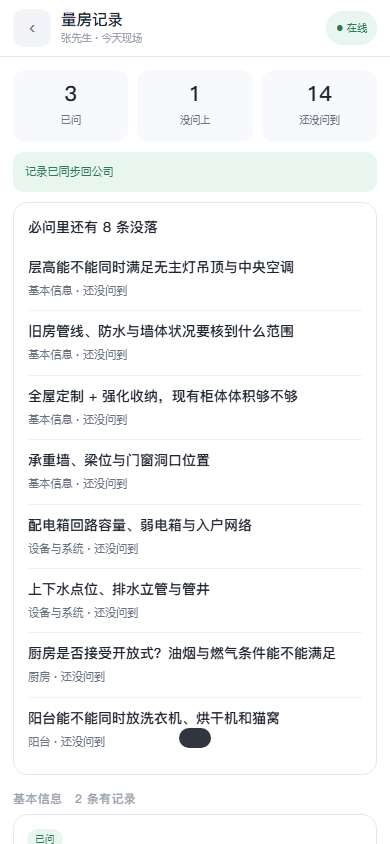
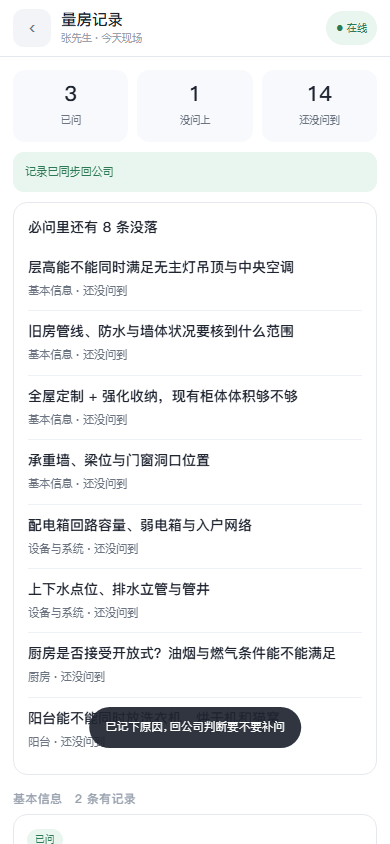
docs: 补齐产品文档与技术方案（采集端手机版与上线状态）
- 产品设计文档 V1.1：端形态表写清「手机版 + 微信小程序」并存关系；指标补装机率；交付线 A5 更新为已上线（小程序待提审）；附录补手机版资产、小程序产物与上线地址；新增附录 B 变更记录

- 技术方案 V1.1：选型表、构建小节、测试矩阵、必须守住的验证点、风险与待定项各自补上装机内容；补上线上发布状态；断言数更正为 113

- 新增两条回归断言：文档版本号在表头/引用/入口页之间一致；两份文档都带变更记录

Changed region(s): [[0.2154, 0.8318, 0.7692, 0.8934]]

diff --git a/landing/index.html b/landing/index.html
@@ -304,12 +304,12 @@ footer .stack{display:flex;gap:8px;flex-wrap:wrap;margin-bottom:12px}
     <h2><span class="n">06</span>文档与源码</h2>
     <div class="grid c3">
       <div class="card">
-        <h3>问需 · 产品设计文档 V1.0</h3>
+        <h3>问需 · 产品设计文档 V1.1</h3>
         <p>产品定位、判据、脱敏策略、功能与指标、待确认项。</p>
         <p><a href="https://github.com/xinhao021121-web/zhuangxiu-demand/blob/main/docs/%E9%97%AE%E9%9C%80_%E4%BA%A7%E5%93%81%E8%AE%BE%E8%AE%A1%E6%96%87%E6%A1%A3_V1.md">读文档 →</a></p>
       </div>
       <div class="card">
-        <h3>问需 · 技术方案 V1.0</h3>
+        <h3>问需 · 技术方案 V1.1</h3>
         <p>分层与选型、模型接入、脱敏与外发顺序、部署与合规、实测结论。</p>
         <p><a href="https://github.com/xinhao021121-web/zhuangxiu-demand/blob/main/docs/%E9%97%AE%E9%9C%80_%E6%8A%80%E6%9C%AF%E6%96%B9%E6%A1%88_V1.md">读文档 →</a></p>
       </div>

diff --git a/tests/unit/naming.test.ts b/tests/unit/naming.test.ts
@@ -161,6 +161,19 @@ describe('文档一致性', () => {
     expect(doc).toContain('采集通道与内部通道分离');
     expect(doc).toContain('DemandSheetImport');
   });
+
+  it('文档版本号在表头、引用与入口页之间一致', () => {
+    expect(read(PRODUCT_DOC)).toContain('问需 · 产品设计文档 V1.1');
+    expect(read(TECH_DOC)).toContain('问需 · 技术方案 V1.1');
+    expect(read(TECH_DOC)).toContain('《问需 · 产品设计文档》V1.1');
+    expect(read('landing/index.html')).toContain('问需 · 产品设计文档 V1.1');
+    expect(read('landing/index.html')).toContain('问需 · 技术方案 V1.1');
+  });
+
+  it('两份文档都带变更记录', () => {
+    expect(read(PRODUCT_DOC)).toContain('附录 B：变更记录');
+    expect(read(TECH_DOC)).toContain('十三、变更记录');
+  });
 });
 
 describe('手机版（PWA）', () => {
